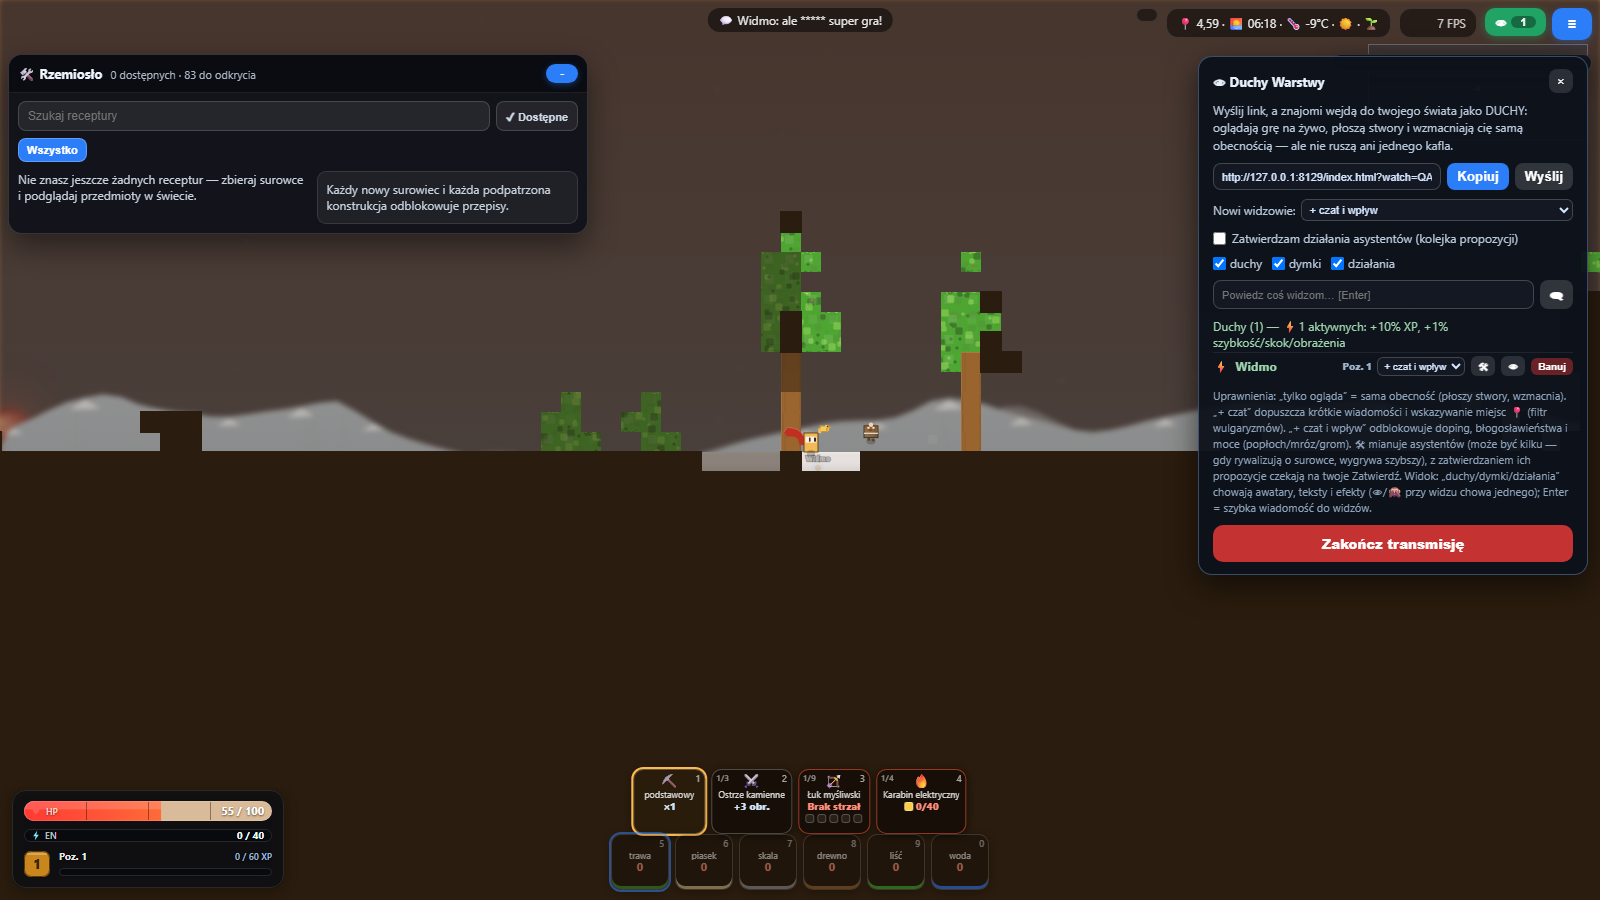
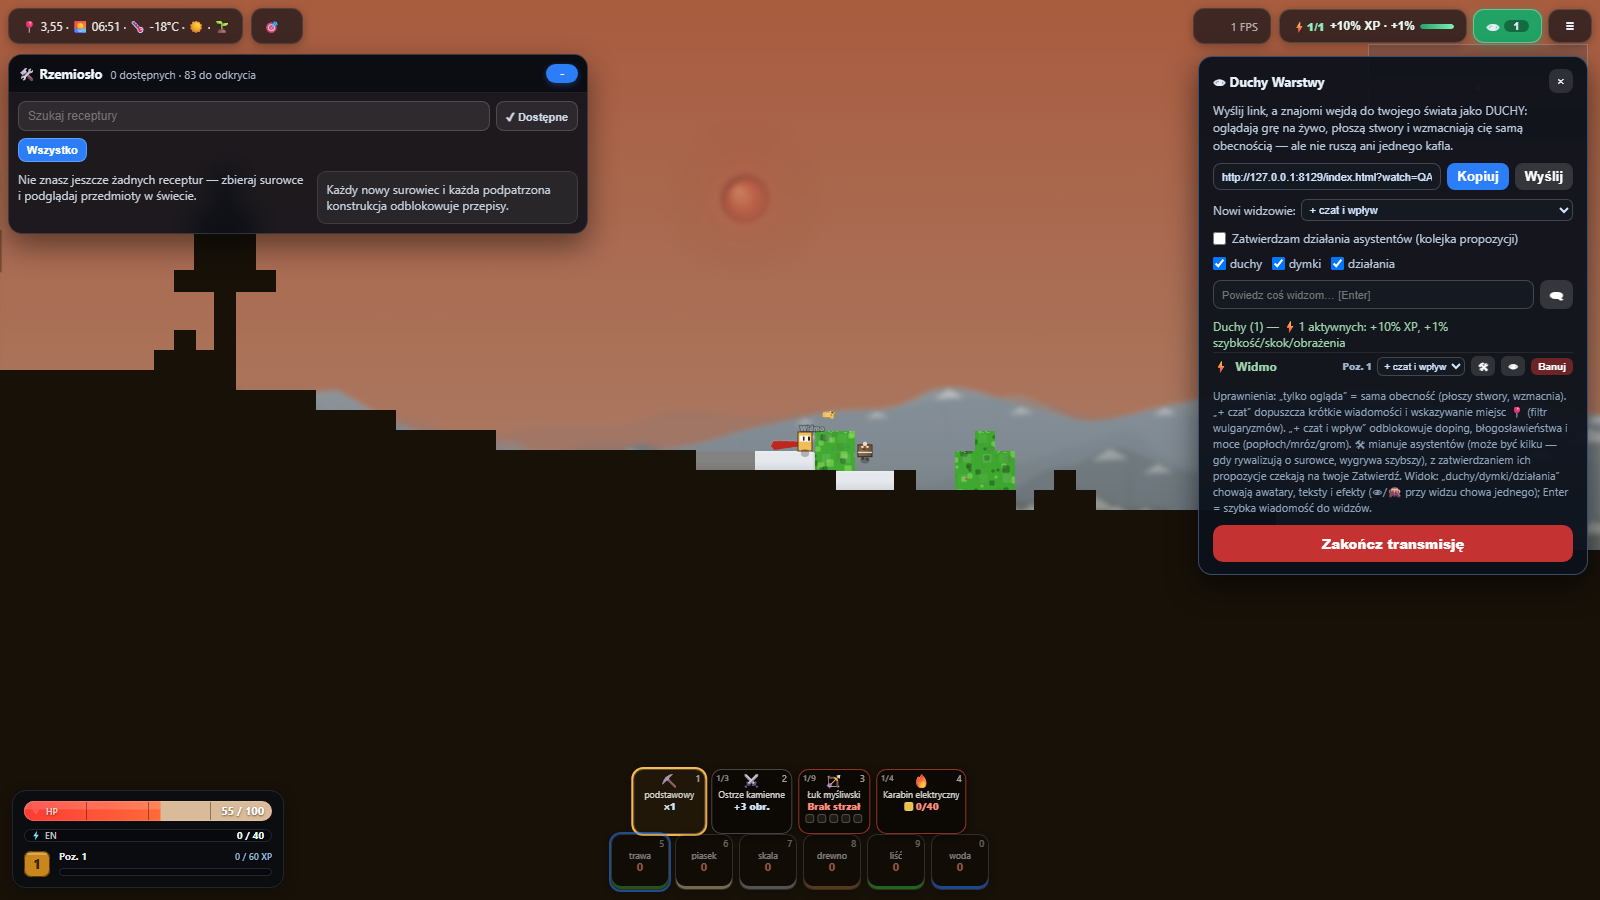
Make the audience's payout visible: social-facilitation meter
The social boosts existed but lived in a hover tooltip, so a host never saw
what an audience was actually worth — or, more importantly, saw when it was
worth nothing.

Meter (#ghostMeter, built by ghost_host.ensureMeter): a live chip beside the
👁 button showing active/total watchers, the CUMULATIVE bonus and a fill bar.
It is inserted before #ghostBtn inside #menuWrap, which ghost mode already
hides wholesale, so it stays host-only for free (index.html only gains CSS).
renderMeter runs in updateUi BEFORE the panel-only early returns, because the
meter is a HUD surface, not panel chrome — it must stay live with the panel
shut or while the host is mid-edit inside it.

Idleness is first-class, not a rounding artifact. With every ghost passive the
meter dims (.idle) and reads "brak premii" instead of quietly showing +0%: a
parked tab must be VISIBLY worth nothing. Per-viewer ⚡/💤 rows already existed;
now the top-level number agrees with them.

Every percentage the host sees is derived from the live boost / SOCIAL_RULES
via one pct() helper — the panel head and the perks blurb had hardcoded
"+10% XP", which would have quietly lied the moment the rules changed. A test
now forbids hardcoded percentages in the host UI.

Activity gating audit (the "passive watchers must not pay" rule): it holds.
markActive fires only on poses carrying the client's self-vouched act flag
(real input within IDLE_MS, re-vouched per pose, 6 s host-side TTL) and on
[…]

diff --git a/src/engine/ghost_host.js b/src/engine/ghost_host.js
@@ -965,6 +965,49 @@ const ghostHost = (function(){
 		updateUi();
 		return approvalMode;
 	}
+	// --- social-facilitation meter: the audience's payout, always on screen ----------------
+	// The boosts existed but lived in a hover tooltip, so the host never saw what an
+	// audience was worth. The meter sits beside the 👁 button (inside #menuWrap, which
+	// ghost mode hides wholesale — so it stays host-only for free) and states the
+	// CUMULATIVE bonus. It is deliberately explicit about idleness: watchers who
+	// haven't touched anything in 30 s pay nothing, and the meter says so rather than
+	// quietly showing +0%.
+	function ensureMeter(btn){
+		if(ui.meter || typeof document === 'undefined' || !btn || !btn.parentNode) return;
+		const m = document.createElement('button');
+		m.type = 'button'; m.id = 'ghostMeter'; m.className = 'topbtn'; m.hidden = true;
+		m.setAttribute('aria-label', 'Facylitacja społeczna — premia od aktywnych widzów');
+		const cnt = document.createElement('span'); cnt.id = 'ghostMeterCount';
+		const val = document.createElement('span'); val.id = 'ghostMeterVal';
+		const bar = document.createElement('span'); bar.id = 'ghostMeterBar';
+		const fill = document.createElement('span'); fill.id = 'ghostMeterFill';
+		bar.appendChild(fill);
+		m.append(cnt, val, bar);
+		m.addEventListener('click', () => togglePanel(true)); // the meter is a door to the panel
+		btn.parentNode.insertBefore(m, btn);
+		ui.meter = m; ui.meterCount = cnt; ui.meterVal = val; ui.meterFill = fill;
+	}
+	function pct(mult){ return Math.round((mult - 1) * 100); }
+	function renderMeter(boost, viewers, active){
+		if(!ui.meter) return;
+		// no session, no audience → the meter has nothing to say
+		if(!session || viewers <= 0){ ui.meter.hidden = true; return; }
+		ui.meter.hidden = false;
+		const idle = active <= 0;
+		ui.meter.classList.toggle('idle', idle);
+		ui.meterCount.textContent = '⚡' + active + '/' + viewers;
+		ui.meterVal.textContent = idle
+			? 'brak premii'
+			: '+' + pct(boost.xp) + '% XP · +' + pct(boost.move) + '%';
+		// the fill reads "how much of my audience is actually with me"
+		ui.meterFill.style.width = Math.round((active / Math.max(1, viewers)) * 100) + '%';
+		ui.meter.title = idle
+			? 'Facylitacja społeczna: ' + viewers + ' ' + (viewers === 1 ? 'duch jest bezczynny' : 'duchów jest bezczynnych')
+				+ ' — bierny widz nie daje nic. Premia wraca, gdy widz znów coś zrobi (ruch kamerą, czat, moc).'
+			: 'Facylitacja społeczna — ' + active + ' z ' + viewers + ' ' + (viewers === 1 ? 'ducha' : 'duchów') + ' aktywnych:\n'
+				+ '+' + pct(boost.xp) + '% XP · +' + pct(boost.move) + '% szybkości · +' + pct(boost.jump) + '% wysokości skoku · +' + pct(boost.dmg) + '% obrażeń\n'
+				+ 'Liczą się tylko widzowie, którzy coś robili w ciągu ostatnich 30 s.';
+	}
 	function mountEntryPoint(){
 		if(typeof document === 'undefined') return;
 		mountSayKey();
@@ -973,6 +1016,7 @@ const ghostHost = (function(){
 			if(!btn || ui.menuBtn) return !!ui.menuBtn;
 			btn.addEventListener('click', () => togglePanel(!panelOpen()));
 			ui.menuBtn = btn;
+			ensureMeter(btn);
 			updateUi();
 			return true;
 		};
@@ -1176,6 +1220,9 @@ const ghostHost = (function(){
 					+ (active ? ' (+' + Math.round((boost.xp - 1) * 100) + '% XP, +' + Math.round((boost.move - 1) * 100) + '% szybkość/skok/obrażenia)' : '')
 					+ (pending ? ' · ⏳' + pending + ' propozycji asystentów czeka' : '');
 		}
+		// the meter is a HUD surface, not panel chrome — it must refresh even when the
+		// panel is shut or the host is mid-edit inside it (both early-return below)
+		renderMeter(boost, list.length, active);
 		const el = ui.panel;
 		// A hidden panel gets no body refresh (the HUD button is the only live surface),
 		// and neither does one the host is actively USING: the periodic rebuild would
@@ -1200,7 +1247,10 @@ const ghostHost = (function(){
 			el.querySelector('#ghostPanelQueue').style.display = 'none';
 			toggle.textContent = 'Rozpocznij transmisję';
 			toggle.style.background = '#21a366';
-			perks.textContent = 'Aktywny widz (ruszał się w ciągu 30 s) daje +10% XP oraz +1% szybkości, skoku i obrażeń. Bezczynne duchy nic nie dają.';
+			// derived from SOCIAL_RULES (via a one-viewer sample), so the pitch can never
+			// drift away from what the engine actually pays
+			perks.textContent = 'Aktywny widz (zrobił coś w ciągu ' + Math.round(NET.SOCIAL_RULES.IDLE_MS / 1000) + ' s) daje +'
+				+ pct(NET.socialBoosts(1).xp) + '% XP oraz +' + pct(NET.socialBoosts(1).move) + '% szybkości, skoku i obrażeń. Bezczynne duchy nic nie dają.';
 			return;
 		}
 		linkRow.style.display = 'flex';
@@ -1235,8 +1285,12 @@ const ghostHost = (function(){
 			viewers.textContent = 'Czekam na duchy… wyślij link.';
 		} else {
 			const head = document.createElement('div');
-			head.style.cssText = 'color:#9fd6ae;margin-bottom:2px;';
-			head.textContent = 'Duchy (' + list.length + ')' + (active ? ' — ⚡' + active + ' aktywnych: +10% XP, +' + active + '% szybkość/skok/obrażenia' : ' — wszystkie bezczynne');
+			// percentages are DERIVED from the live boost — never retyped here, or a
+			// tweak to SOCIAL_RULES would leave the panel quietly lying to the host
+			head.style.cssText = 'margin-bottom:2px;color:' + (active ? '#9fd6ae' : '#8d99a8') + ';';
+			head.textContent = 'Duchy (' + list.length + ')' + (active
+				? ' — ⚡' + active + ' aktywnych: +' + pct(boost.xp) + '% XP, +' + pct(boost.move) + '% szybkość/skok/obrażenia'
+				: ' — wszystkie bezczynne, brak premii');
 			viewers.appendChild(head);
 			for(const entry of list) viewers.appendChild(viewerRow(entry, t));
 		}

diff --git a/index.html b/index.html
@@ -421,6 +421,21 @@
   #ghostBtn.live{ background:#21a366; box-shadow:0 2px 10px rgba(33,163,102,.45); }
   #ghostBtn #ghostBtnCount{ background:rgba(0,0,0,.35); border-radius:999px; min-width:15px; padding:0 5px; font-size:11px; font-weight:700; text-align:center; }
   #ghostBtn #ghostBtnCount:empty{ display:none; }
+  /* Social-facilitation meter (DOM built by ghost_host.js, inserted before #ghostBtn):
+     the cumulative audience bonus, always on screen while streaming. Green = active
+     watchers are paying out; grey .idle = every ghost is passive, so nothing is owed. */
+  #ghostMeter{ display:inline-flex; align-items:center; gap:5px; padding:0 9px; background:rgba(33,163,102,.24); border-color:rgba(33,163,102,.5); cursor:pointer; }
+  #ghostMeter[hidden]{ display:none; }
+  #ghostMeter:hover{ background:rgba(33,163,102,.36); border-color:rgba(33,163,102,.75); }
+  #ghostMeter #ghostMeterCount{ font-size:11px; font-weight:800; color:#8ff0bd; white-space:nowrap; }
+  #ghostMeter #ghostMeterVal{ font-size:12px; font-weight:700; color:#eaf7f0; white-space:nowrap; }
+  #ghostMeter #ghostMeterBar{ position:relative; width:34px; height:5px; border-radius:999px; background:rgba(0,0,0,.4); overflow:hidden; }
+  #ghostMeter #ghostMeterFill{ position:absolute; left:0; top:0; bottom:0; width:0; border-radius:999px; background:linear-gradient(90deg,#21a366,#7ef0b4); transition:width .25s ease; }
+  #ghostMeter.idle{ background:rgba(8,12,20,.66); border-color:rgba(255,255,255,.14); }
+  #ghostMeter.idle:hover{ background:rgba(34,46,66,.82); border-color:rgba(255,255,255,.28); }
+  #ghostMeter.idle #ghostMeterCount{ color:#8d99a8; }
+  #ghostMeter.idle #ghostMeterVal{ color:#9aa6b4; font-weight:600; }
+  #ghostMeter.idle #ghostMeterFill{ background:#4a5768; }
   /* Wandering trader trade panel (DOM built by main.js, model in engine/trader.js) */
   #traderPanel{ position:fixed; left:50%; top:50%; transform:translate(-50%,-50%); z-index:120; width:min(540px,calc(100vw - 24px)); max-height:min(72vh,580px); overflow:auto; overscroll-behavior:contain; color:#eef4fb; background:rgba(13,17,24,.94); border:1px solid rgba(255,255,255,.16); border-radius:14px; padding:12px; font-size:13px; box-shadow:0 14px 34px rgba(0,0,0,.5); backdrop-filter:blur(10px); pointer-events:auto; }
   #traderPanel .tradeHead{ display:flex; justify-content:space-between; align-items:center; gap:8px; margin-bottom:8px; }

diff --git a/src/engine/ghost_client.js b/src/engine/ghost_client.js
@@ -1163,7 +1163,11 @@ const ghostClient = (function(){
 
 	const api = { boot, frame, active: () => !!WATCH && state !== 'idle', state: () => state, drawSpirits, sendBuff, sendChat, sendPower, sendPing, sendAssist, setAvatar, setFollow, setCam, noteInput, leave, metrics,
 		openProgress: () => toggleProgPanel(),
-		_debugConnLost: scheduleReconnect }; // QA: exercises the real drop→rejoin→resnapshot cycle
+		_debugConnLost: scheduleReconnect, // QA: exercises the real drop→rejoin→resnapshot cycle
+		// QA: age this watcher's last input past IDLE_MS without waiting 30 real seconds.
+		// It rewinds the SAME stamp isActive() reads, so the idle path under test is the
+		// production one (next pose vouches act=0 → the host's TTL lapses → boosts drop).
+		_idleForTest: () => { lastInputAt = 0; } };
 	if(MMR) MMR.ghostClient = api;
 	return api;
 })();

diff --git a/README.md b/README.md
@@ -198,6 +198,24 @@ reversed damage → mutual fall → epilogue, snapshot/restore) and
   controls/arrows stay fixed aliases. Persisted in `mm_keybinds_v1` (tampered
   blobs fail closed to defaults). Tests: `npm run test:keybinds`; visual QA:
   `node tools/keybinds-qa.mjs`.
+* **Spectators & social facilitation** (`engine/ghost_host.js` / `ghost_client.js` /
+  `ghost_net.js`): the 👁 button opens a stream — friends join via `?watch=ROOM` as
+  **ghosts** who see the live world, spook creatures, chat, bless and (with the host's
+  permission) act as assistants. An audience makes the hero measurably stronger:
+  **+10% XP and +1% move / jump / damage per watcher**, published as `MM.socialBoost`
+  and multiplied into mob XP, the movement/jump multipliers and hero attack rolls
+  (neutral 1.0 in solo play and Node sims). **Only ACTIVE watchers pay**: the watcher
+  vouches for its own recent input (real keys/clicks/wheel within 30 s), each pose
+  re-vouches, and the host expires that vouch after 6 s — so a parked tab on a second
+  machine stops counting within seconds of its human walking away. Nothing auto-marks a
+  watcher active, and the activity clock is epoch-based so a freshly joined, untouched
+  tab starts *idle* rather than counting for its first 30 seconds. The host sees all of
+  this in a **social-facilitation meter** beside the 👁 button (`#ghostMeter`): active/total
+  watchers, the cumulative bonus, and a fill bar — dimmed and reading "brak premii" when
+  every ghost is idle, so a passive audience is visibly worth nothing rather than
+  silently worth +0%. All percentages in the UI are derived from `SOCIAL_RULES`, never
+  retyped. Tests: `npm run test:ghost`; live two-tab QA: `node tools/ghost-qa.mjs`
+  (drives a real host + watcher over CDP, including the active → idle → recovery cycle).
 * **Structures** (`world.js placeStructures`): ~10% of chunks deterministically roll a
   ruined stone gateway with a rare/epic chest (flat land) or a wooden **shipwreck** with
   an epic chest resting on the sea floor. ~14% of the land rolls become a **Summoning